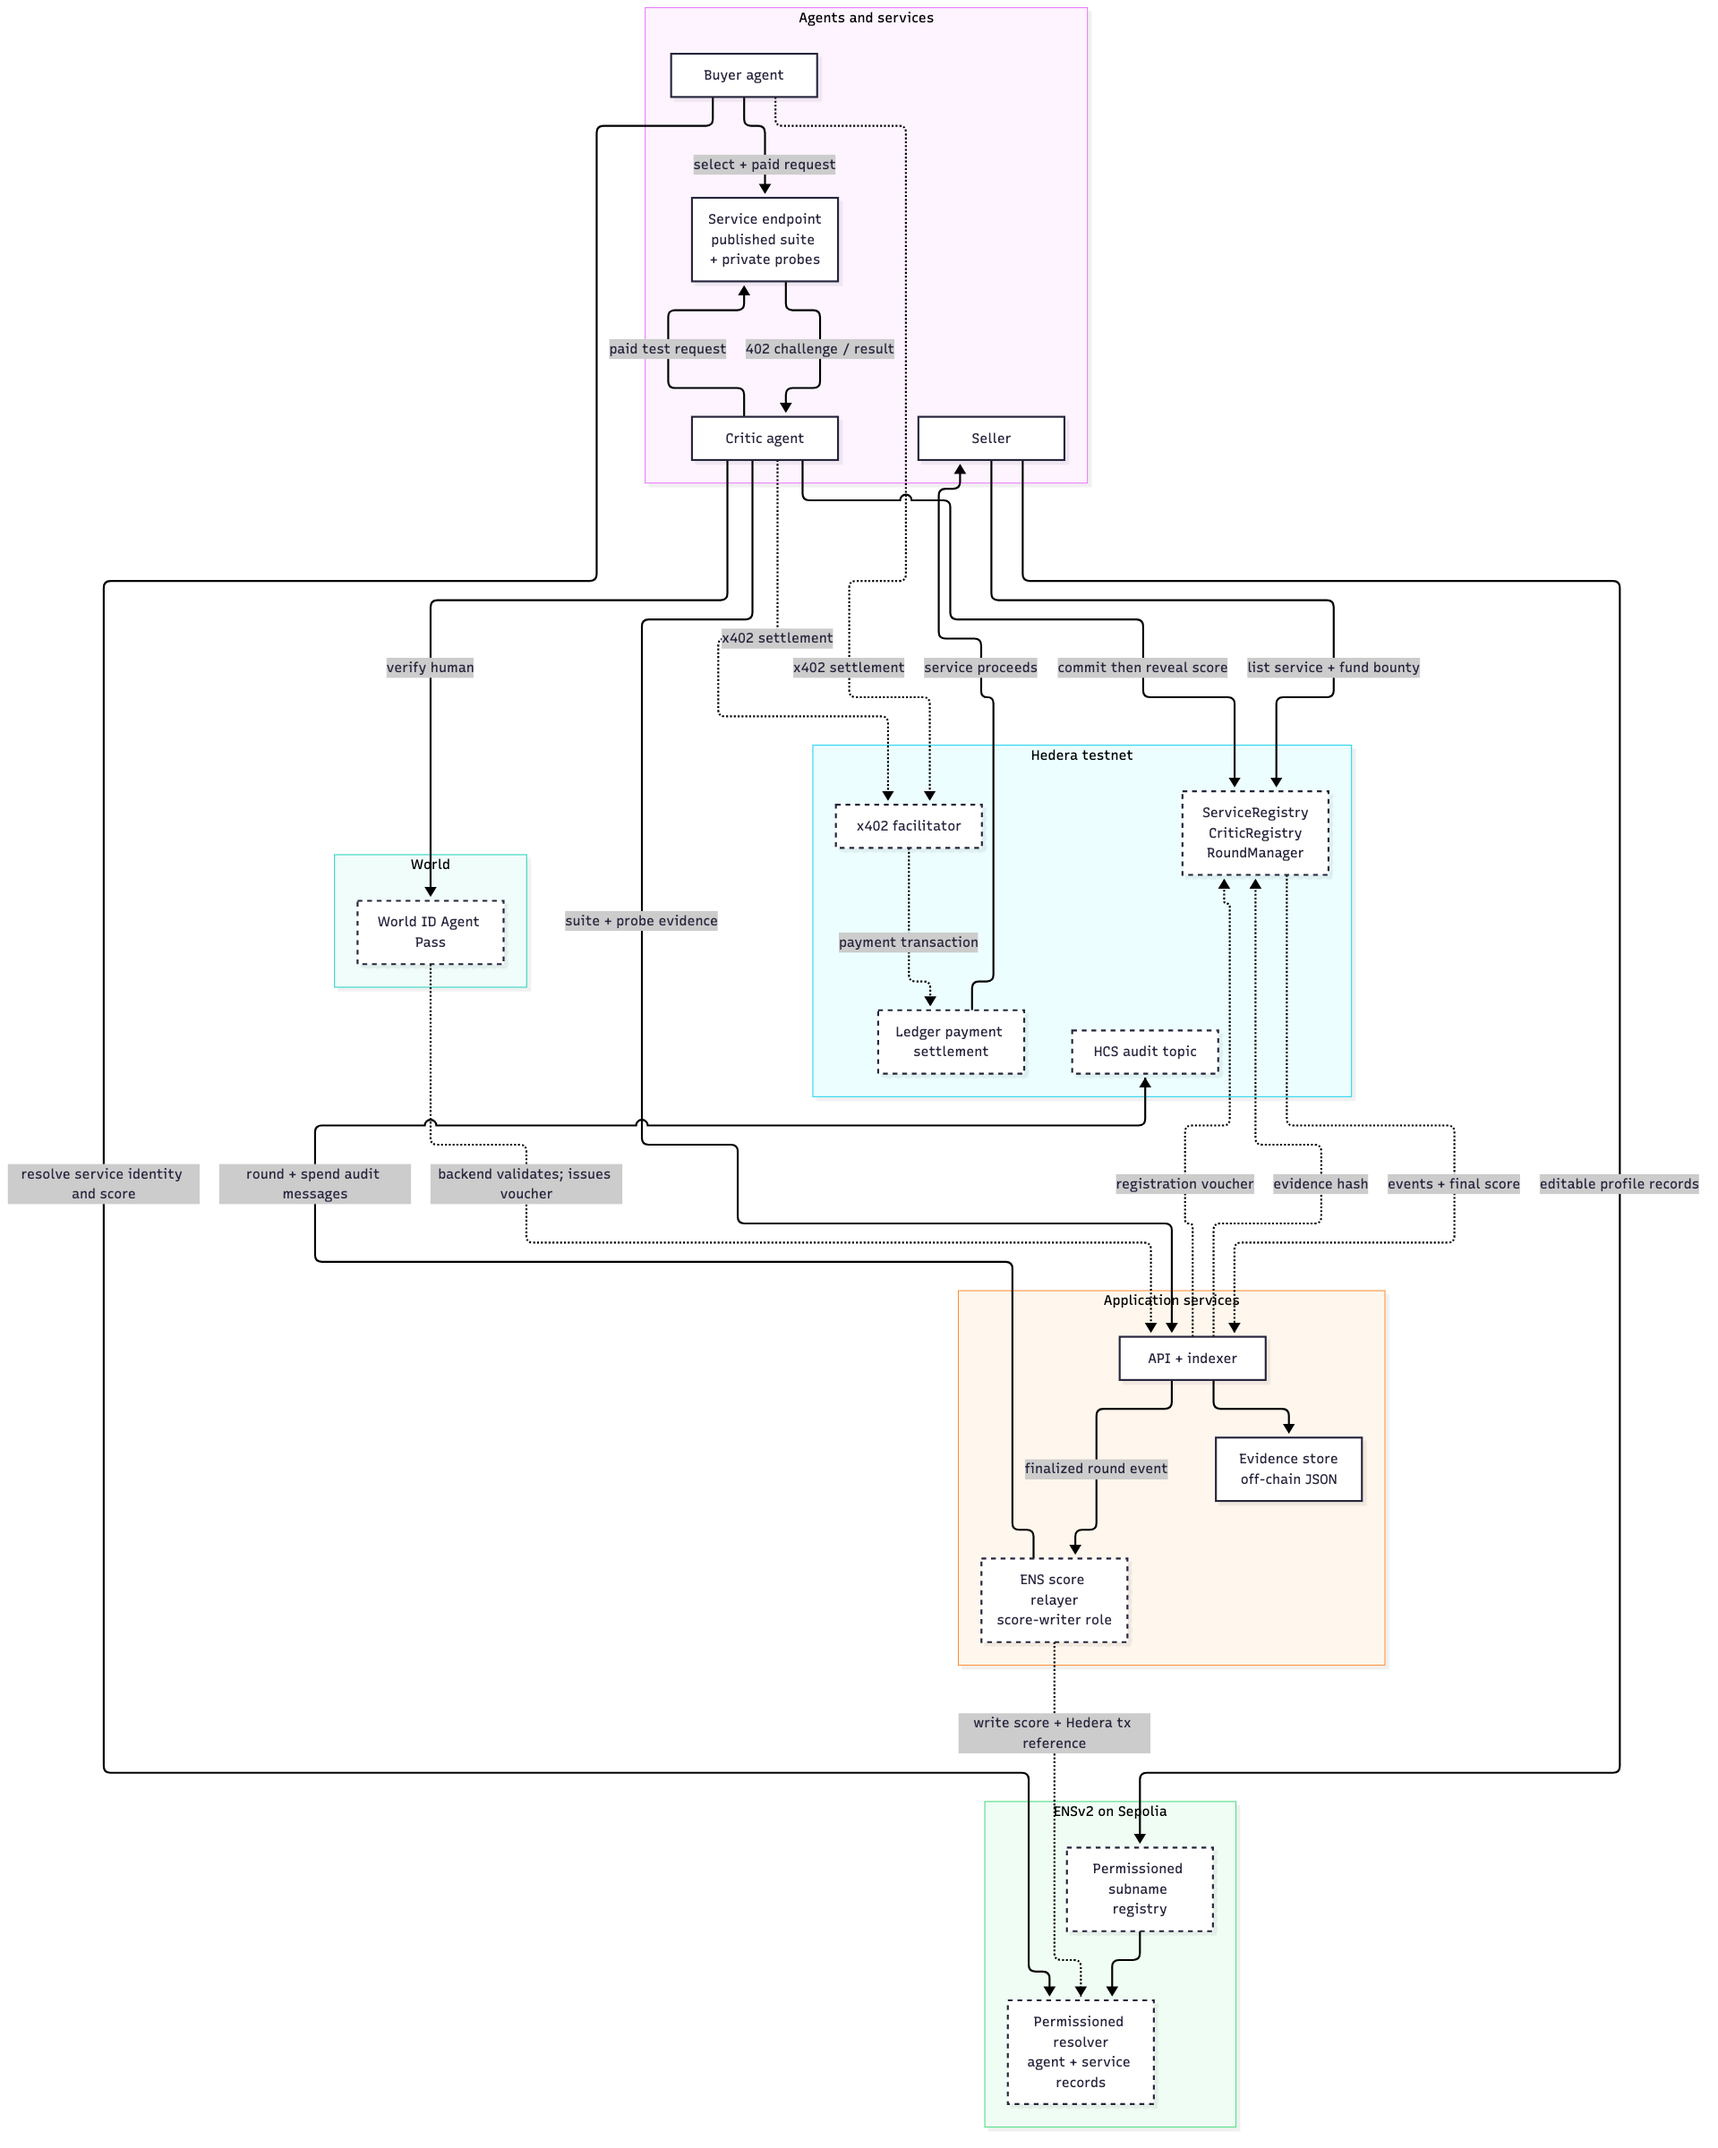
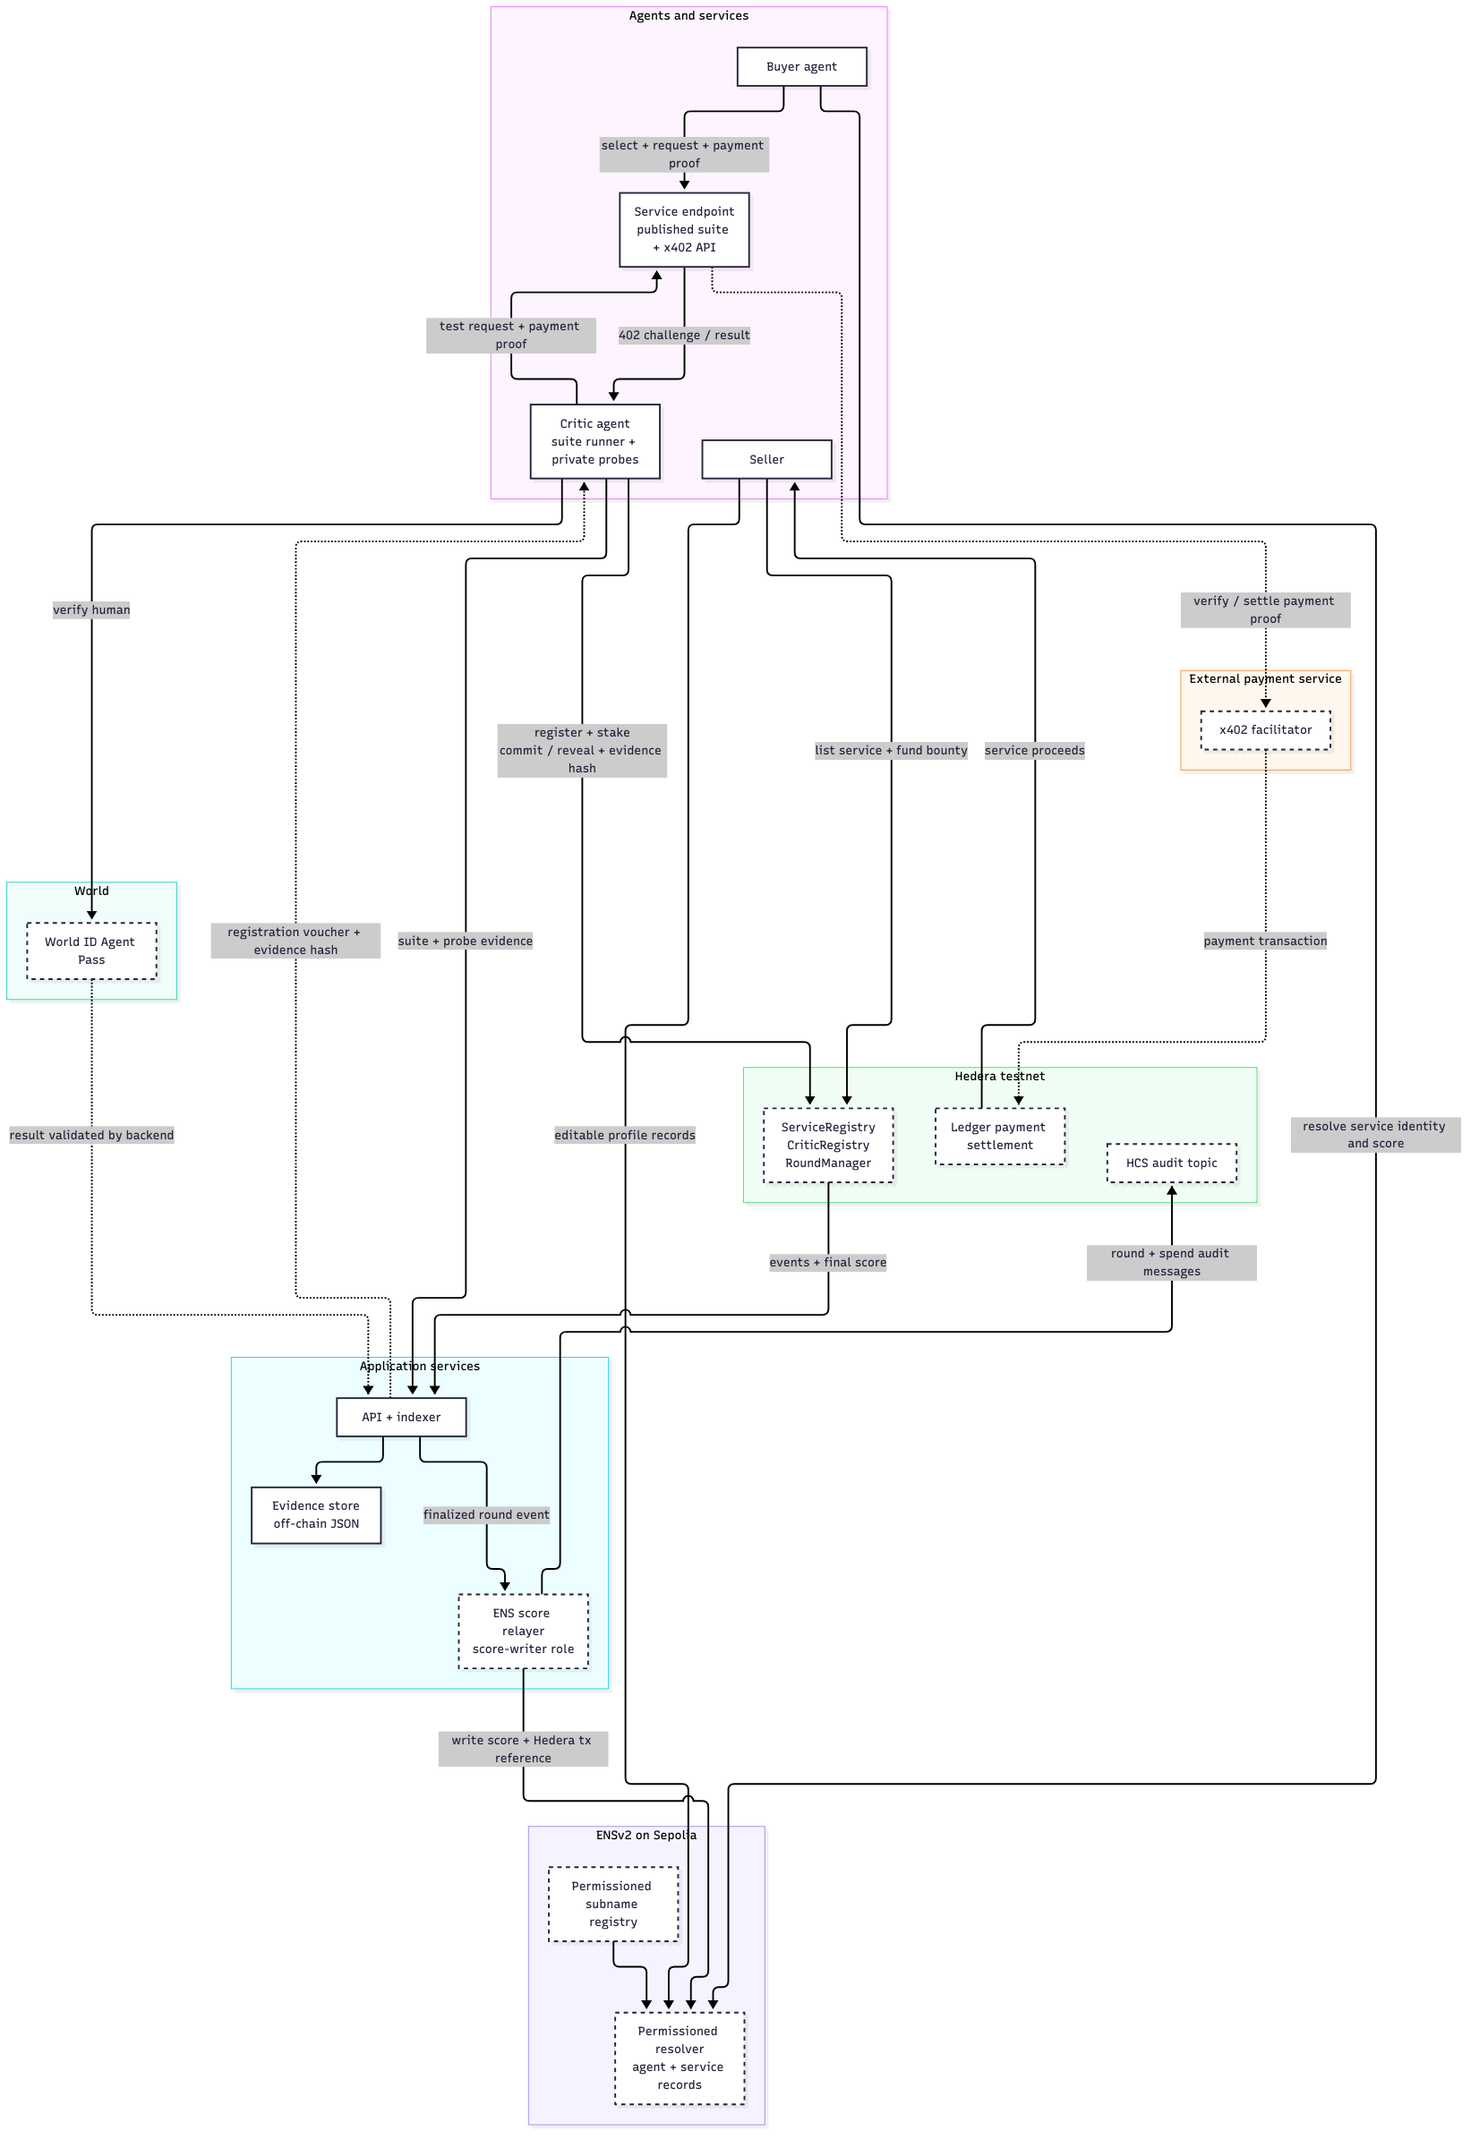
fix(docs): align trust diagram and disclose mocked identity proofs

diff --git a/README.md b/README.md
@@ -40,6 +40,8 @@ The feature-by-feature implementation and evidence status are in [`docs/ens.md`]
 
 Agent Pass is intended to gate the meaningful action of registering a critic, limiting one critic identity per verified person. The backend must validate the result before issuing a registration voucher. A denied, expired, cancelled, or duplicate-human attempt must not register a critic. This is an authorization step, not a login decoration. The complete verified and denied journeys remain to be demonstrated against the official integration.
 
+The event's Agent Pass proofs use mocked, fake identities. They can demonstrate the verification and denial workflow, but they do not establish real-human uniqueness or production identity assurance. Those guarantees require genuine supported credentials and correct backend validation and nullifier binding.
+
 ## Payment and review flow
 
 The planned paid call is: critic or buyer selects a listed service; the client checks its price against the caller's spending policy; x402 obtains payment for the request; the service returns its result; and the Hedera transaction ID is recorded with the run evidence. For critic runs, evidence is stored off-chain and its hash is committed on-chain. HCS is intended to carry separate round and spending audit messages. Finalized review data is then mirrored to ENS by the relayer.
@@ -73,7 +75,7 @@ ERC-8004 provides shared agent identity and reputation/validation registries, wh
 ## Limits and trust assumptions
 
 - A stake-weighted median can be wrong. Skeptic does not defend against a majority of stake colluding or all critics sharing the same mistaken belief.
-- A seller may bribe real people. World verification limits one critic per human but does not prevent bribery.
+- World gating is intended to limit one critic per human with genuine supported credentials and correct nullifier binding. Event mock proofs do not provide that assurance, and real people can still be bribed.
 - Nondeterministic services can produce inconsistent results and punish honest critics.
 - Seller-to-critic test payments can inflate usage metrics. Critic calls must be excluded from popularity counts.
 - Commit-reveal reduces copying, but does not make reviewers independent or their evidence truthful.
